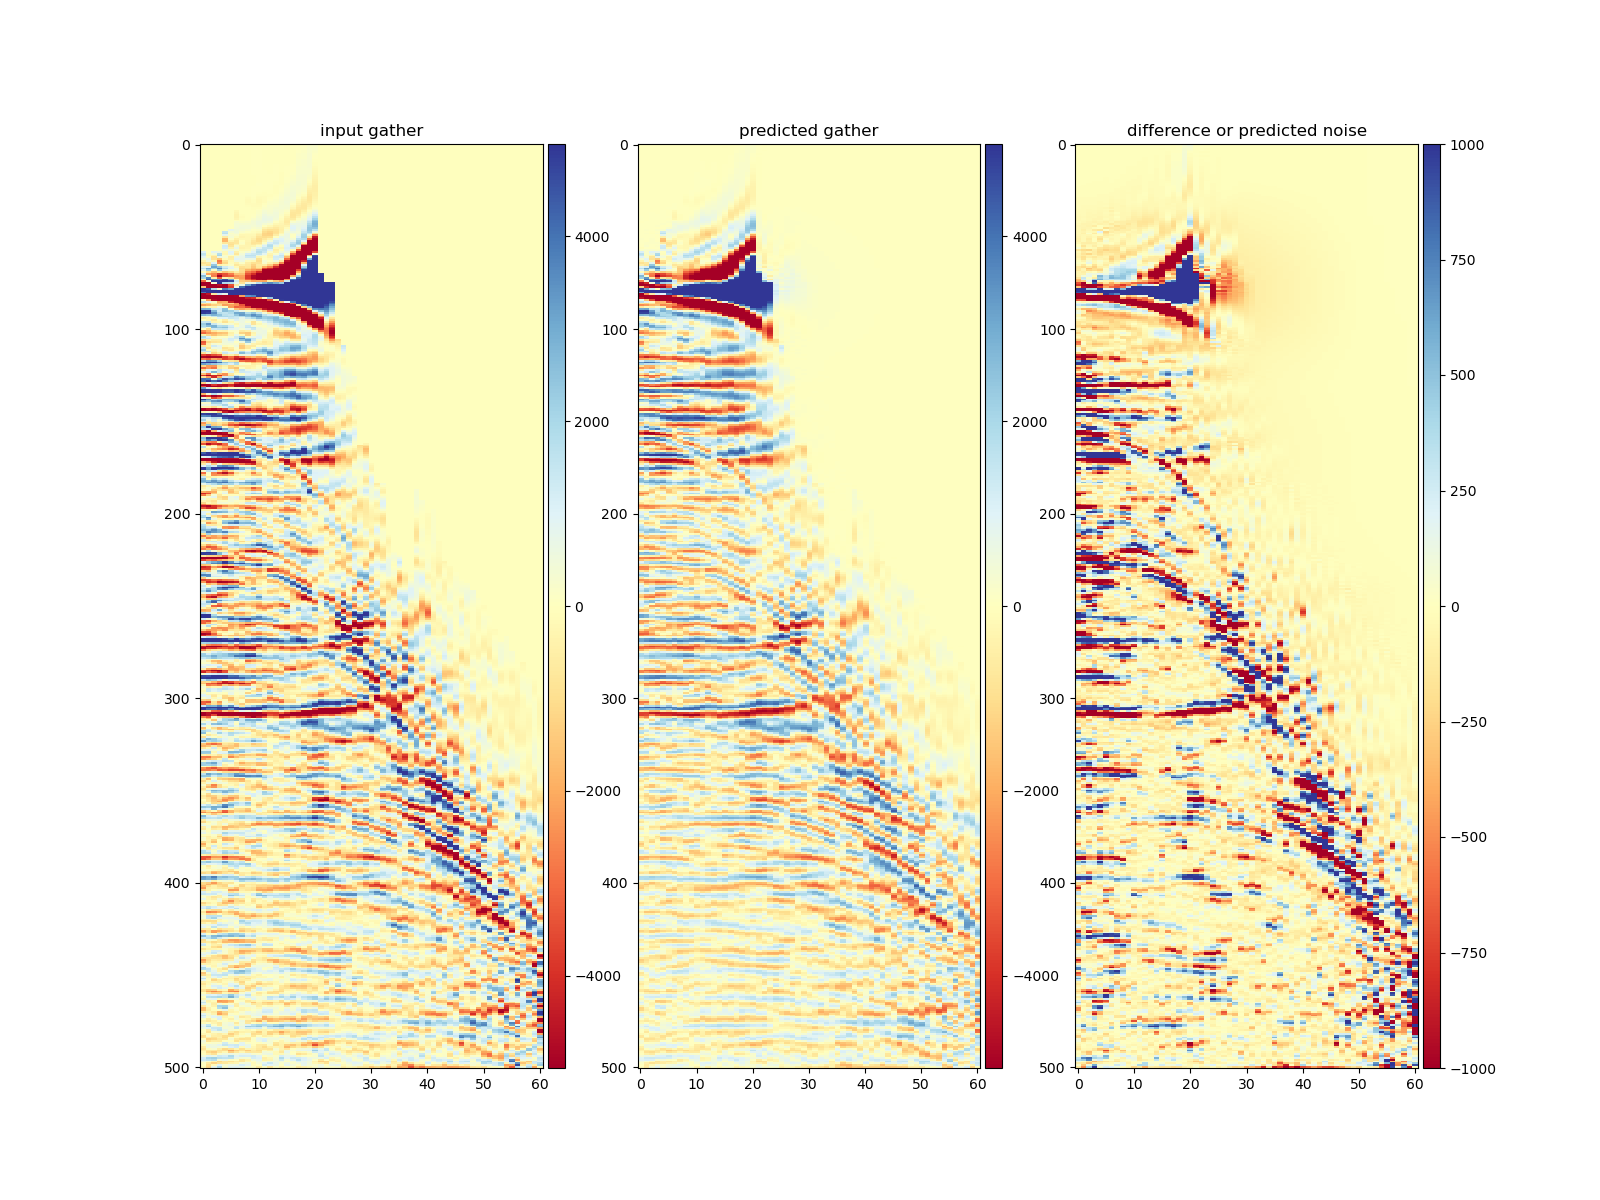
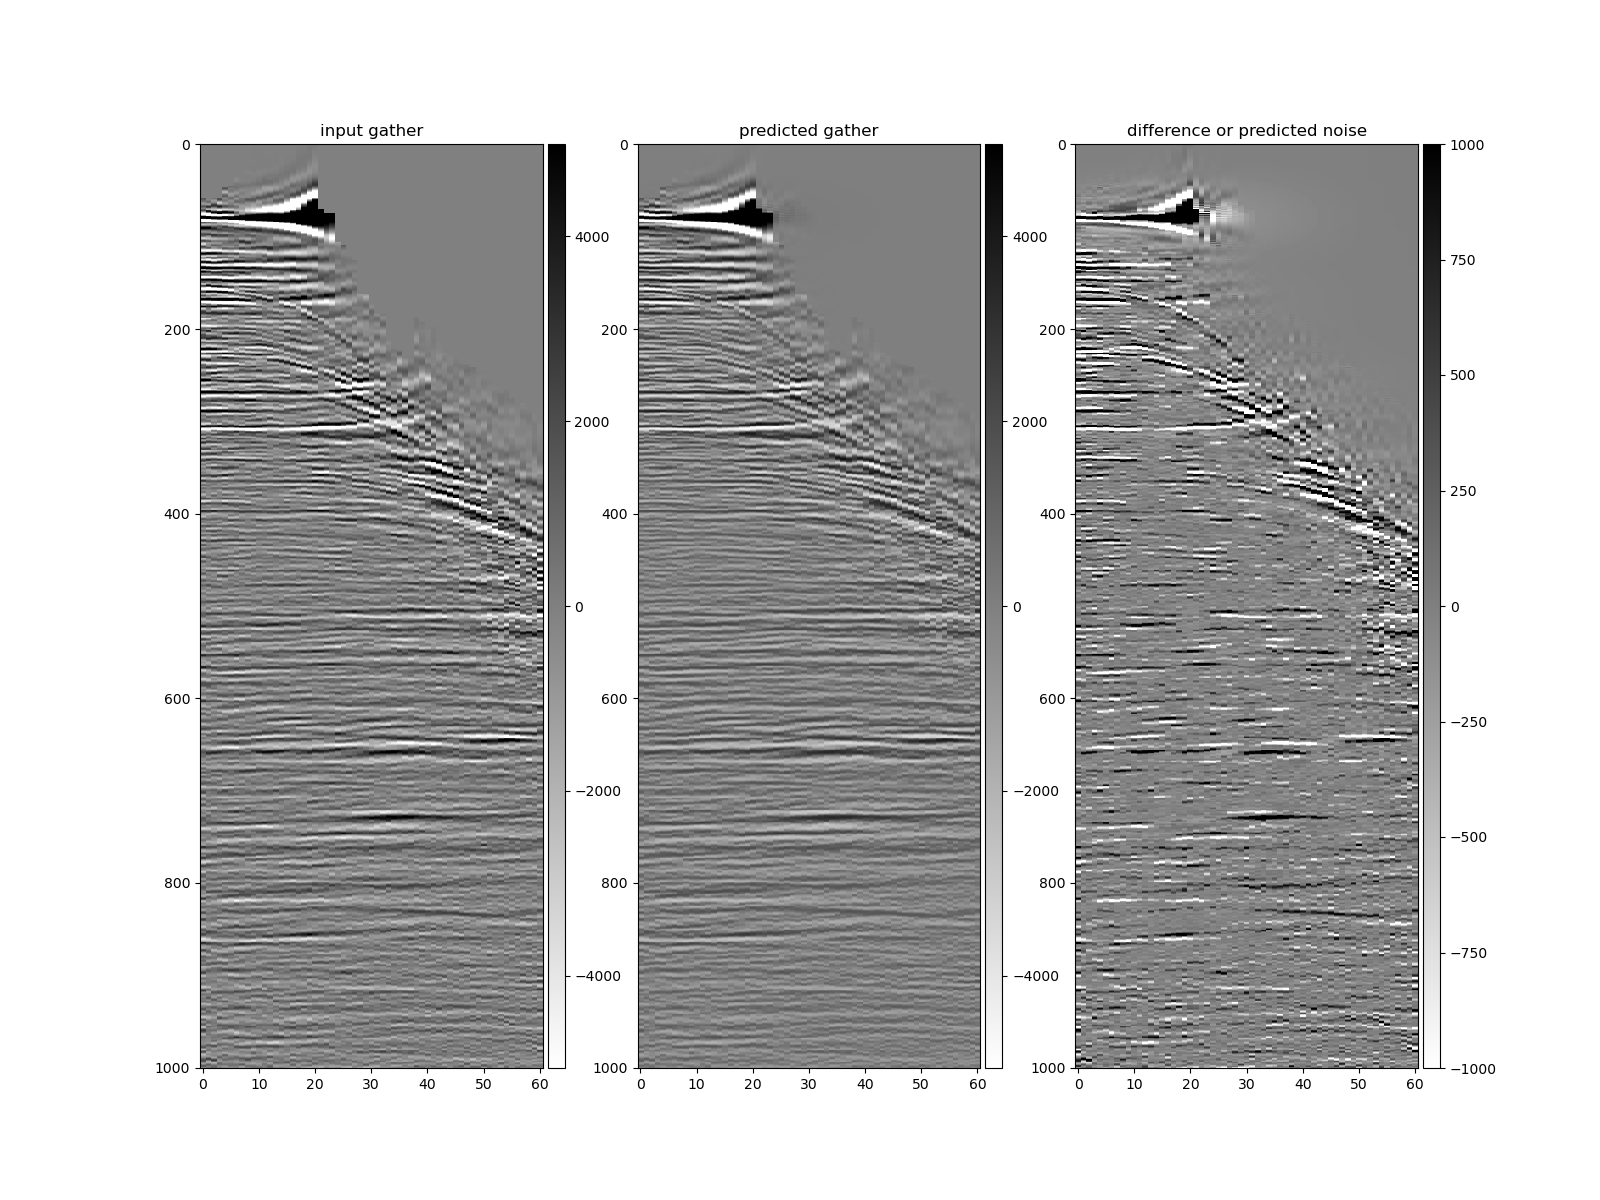
example image update

diff --git a/plotting.py b/plotting.py
@@ -7,21 +7,21 @@ def plot_gather(fig_handle, input_ensemble, output_ensemble):
     # fig = plt.figure(figsize=(16, 12))
     ax1 = fig_handle.add_subplot(131)
     ax1.set_title("input gather")
-    im1 = ax1.imshow(numpy.transpose(input_ensemble), clim=(-5000,5000), cmap="RdYlBu", aspect="auto", interpolation='None')
+    im1 = ax1.imshow(numpy.transpose(input_ensemble), clim=(-5000,5000), cmap="binary", aspect="auto", interpolation='None')
     divider = make_axes_locatable(ax1)
     cax = divider.append_axes('right', size='5%', pad=0.05)
     fig_handle.colorbar(im1, cax=cax, orientation='vertical')
 
     ax2 = fig_handle.add_subplot(132)
     ax2.set_title("predicted gather")
-    im2 = ax2.imshow(numpy.transpose(output_ensemble), clim=(-5000,5000), cmap="RdYlBu", aspect="auto", interpolation='None')
+    im2 = ax2.imshow(numpy.transpose(output_ensemble), clim=(-5000,5000), cmap="binary", aspect="auto", interpolation='None')
     divider = make_axes_locatable(ax2)
     cax = divider.append_axes('right', size='5%', pad=0.05)
     fig_handle.colorbar(im2, cax=cax, orientation='vertical')
 
     ax3 = fig_handle.add_subplot(133)  # difference, i.e. predicted noise
     ax3.set_title("difference or predicted noise")
-    im3 = ax3.imshow(numpy.transpose(input_ensemble - output_ensemble), clim=(-1000,1000), cmap="RdYlBu", aspect="auto", interpolation='None')
+    im3 = ax3.imshow(numpy.transpose(input_ensemble - output_ensemble), clim=(-1000,1000), cmap="binary", aspect="auto", interpolation='None')
     divider = make_axes_locatable(ax3)
     cax = divider.append_axes('right', size='5%', pad=0.05)
     fig_handle.colorbar(im3, cax=cax, orientation='vertical')

diff --git a/apply_dcn.py b/apply_dcn.py
@@ -65,7 +65,7 @@ model.eval()
 
 numpy_data = numpy.load("data/3D_gathers_pstm_reformat_ieee_little_endian_full_fold_inline_1360_1400.npy")
 # TRIM SAMPLES FOR FASTER DISPLAY
-numpy_data = numpy_data[:,:501]
+numpy_data = numpy_data[:,:1001]
 input_ensemble = torch.tensor(numpy_data, device='cpu')
 print(input_ensemble.size())
 output_ensemble = apply_dcn_to_gather(dcn_model=model, ensemble_data=input_ensemble, nn_patch_size=PATCH_SIZE)
